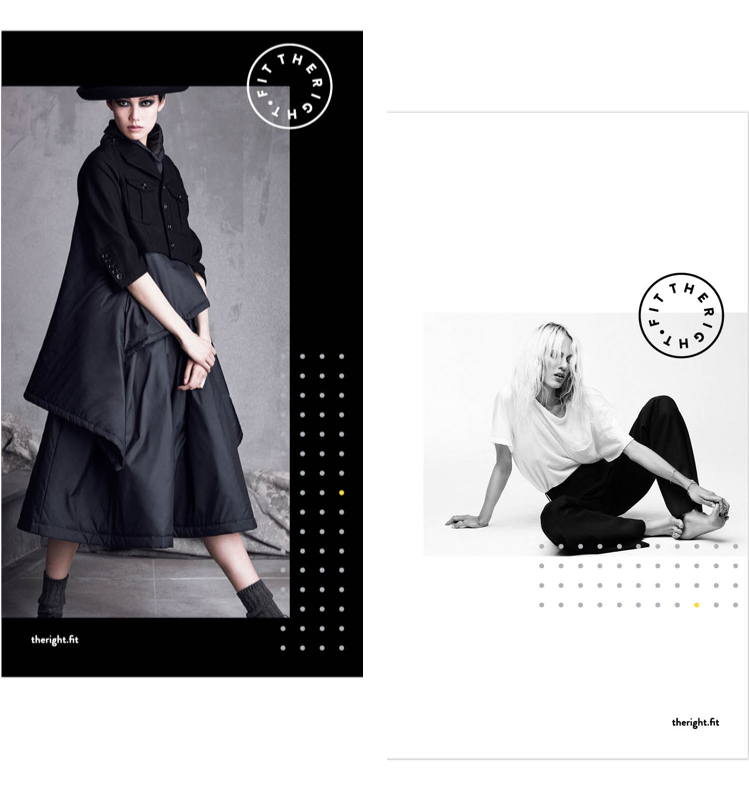
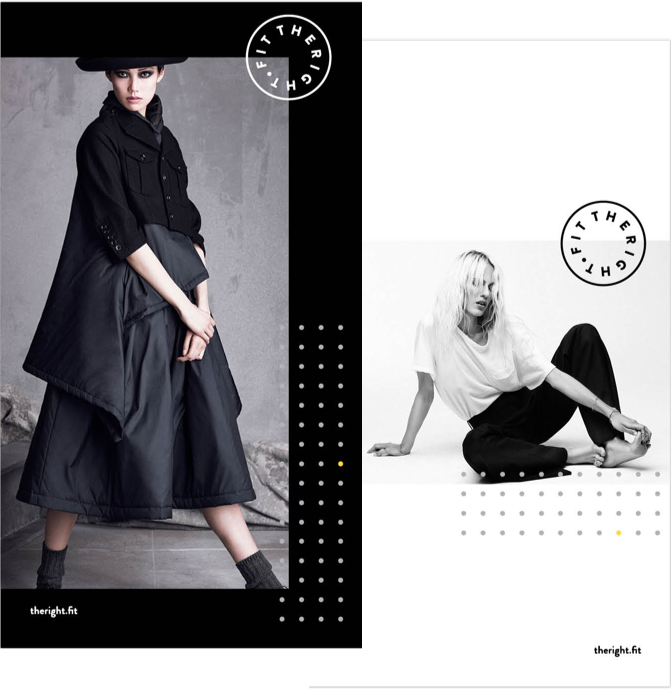
Images and margin

diff --git a/trf.html b/trf.html
@@ -32,7 +32,7 @@
     </div>
   </div>
   <div class="container wide">
-    <div class="row">
+    <div class="row margin">
       <div class="twelve columns"><img src="imgs/trf/theright.fit-logo.png" srcset="imgs/trf/theright.fit-logo@2x.png 2x" alt="theright.fit"></div>
     </div>
     <div class="row">
@@ -60,12 +60,7 @@
     </div>
   </div>
   <div class="container">
-    <div class="row">
-      <div class="twelve columns"><img src="imgs/trf/therightfit-bc.png" srcset="imgs/trf/therightfit-bc@2x.png 2x" alt="theright.fit"></div>
-    </div>
-  </div>
-  <div class="container">
-    <div class="row">
+    <div class="row margin-top">
       <div class="twelve columns"><img src="imgs/trf/therightfit-display.png" srcset="imgs/trf/therightfit-display@2x.png 2x" alt="theright.fit"></div>
     </div>
   </div>

diff --git a/css/style.css b/css/style.css
@@ -713,10 +713,10 @@ header {
   padding: 4% 0 3% 0; }
   .full.black {
     background-color: black;
-    padding: 10% 0 3% 0; }
+    padding: 6% 0 3% 0; }
   .full.trf {
     background-color: #0E1468;
-    padding: 10% 0 3% 0; }
+    padding: 6% 0 3% 0; }
   .full.grey {
     background: #F7F7F7;
     box-shadow: inset 0px -1px 0px 0px rgba(0, 0, 0, 0.05), inset 0px 1px 0px 0px rgba(0, 0, 0, 0.1); }
@@ -744,8 +744,7 @@ header {
     background-color: #2E353E; }
 
 .margin-top {
-  margin-top: 6%;
-  margin-bottom: 0px;
+  margin-top: 4%;
   display: block; }
 
 .margin-bottom {

diff --git a/sass/fdc-style.sass b/sass/fdc-style.sass
@@ -179,10 +179,10 @@ header
   padding: 4% 0 3% 0
   &.black
     background-color: black
-    padding: 10% 0 3% 0
+    padding: 6% 0 3% 0
   &.trf
     background-color: #0E1468
-    padding: 10% 0 3% 0
+    padding: 6% 0 3% 0
   &.grey
     background: #F7F7F7
     box-shadow: inset 0px -1px 0px 0px rgba(0,0,0,0.05), inset 0px 1px 0px 0px rgba(0,0,0,0.10)
@@ -210,8 +210,7 @@ header
 
 // MARGINS
 .margin-top
-  margin-top: 6%
-  margin-bottom: 0px
+  margin-top: 4%
   display: block
 
 .margin-bottom
